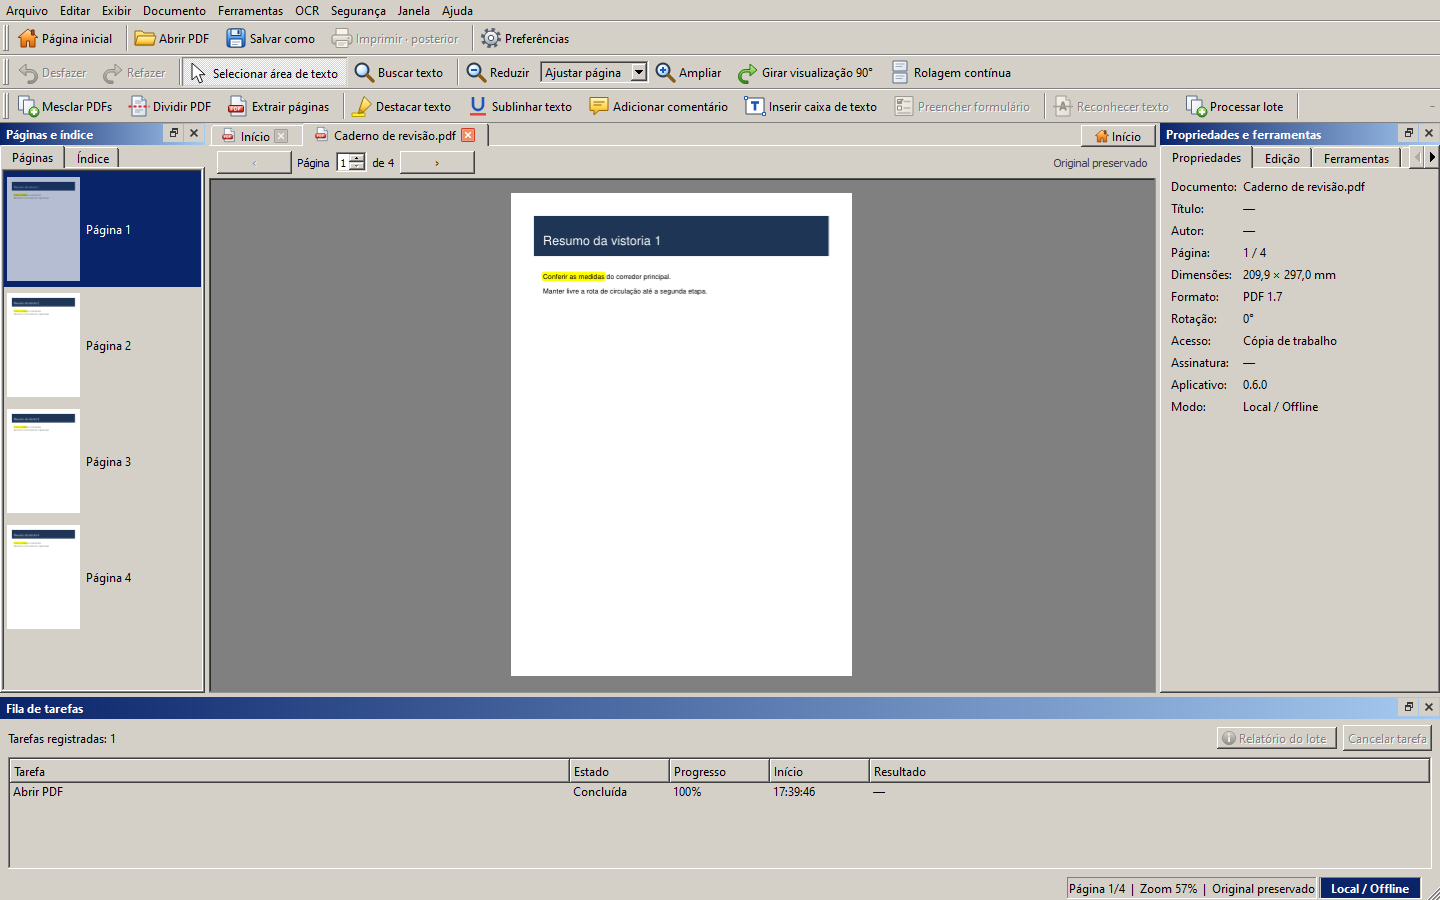
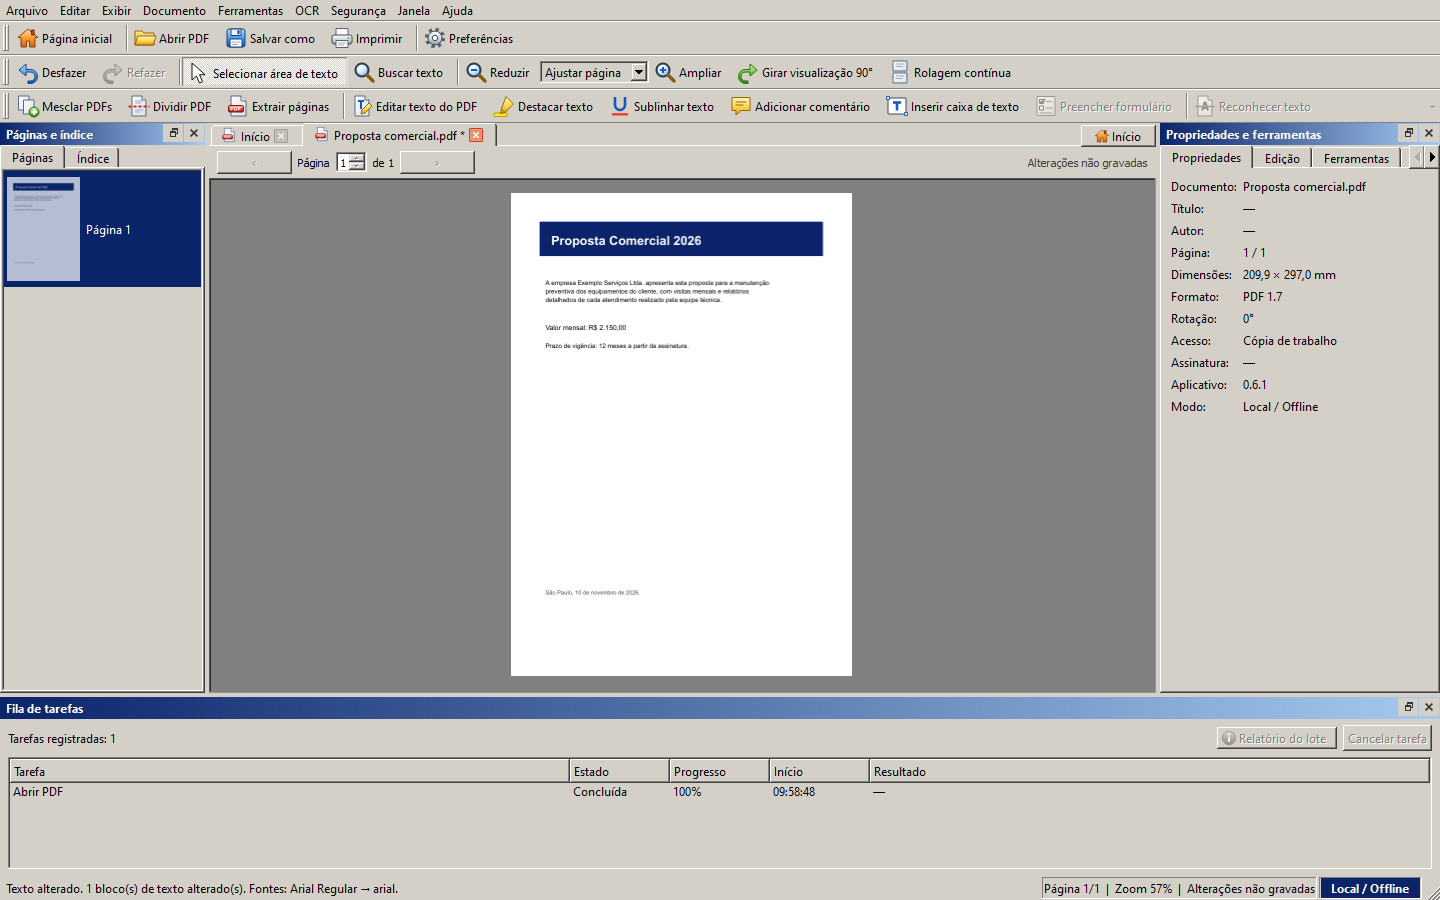
Versão 0.8.0: impressão e edição do texto original
Documentação (README, guia, guia interno, arquitetura, plano de testes,
avisos de terceiros sobre as fontes do sistema), roteiro da página inicial,
capturas atualizadas e teste do executável cobrindo a edição de texto.

diff --git a/src/oldschoolpdf/ui/pages.py b/src/oldschoolpdf/ui/pages.py
@@ -48,6 +48,23 @@ Selecione o destaque, sublinhado, caixa de texto, carimbo, forma ou imagem e arr
 a página. Clique para posicionar um comentário. Esc cancela a ferramenta ativa.
 Selecione uma anotação na página ou no painel para mover, editar seu texto ou excluí-la,
 conforme o tipo. Para campos AcroForm compatíveis, use Preencher formulário na página do campo.</p>
+<h2>Editar o texto original</h2>
+<p>Use <b>Editar → Editar texto do PDF</b> (Ctrl+E). A página aparece à esquerda com os
+blocos de texto numerados. Clique num bloco, edite o texto à direita e use Negrito e Itálico
+se precisar. Vários blocos podem ser alterados e aplicados de uma vez. <b>Gerar prévia</b>
+mostra a cópia editada antes de gravar; <b>Aplicar ao PDF</b> cria uma revisão nova, que pode
+ser desfeita com Ctrl+Z.</p>
+<p>O programa apaga só o texto do bloco e escreve o novo no mesmo lugar, usando a mesma família
+de fonte instalada no Windows quando existir. Depois confere o texto gravado, o resto da página,
+os links e as anotações; se algo divergir, nada é alterado. Se o texto novo não couber, escolha
+reduzir a fonte ou expandir o bloco para baixo. Blocos tracejados não podem ser editados:
+texto invisível de OCR, texto girado, texto sobre campos de formulário ou páginas
+digitalizadas sem texto.</p>
+<h2>Imprimir</h2>
+<p><b>Arquivo → Imprimir</b> (Ctrl+P) abre o diálogo do Windows, com intervalo de páginas,
+página atual, cópias e ordem. Cada página é ajustada ao papel e girada quando a orientação
+difere. A impressão aparece na fila de tarefas e pode ser cancelada. PDFs que proíbem
+impressão deixam o comando desativado.</p>
 <h2>Gravar a cópia de trabalho</h2>
 <p>Ctrl+Z e Ctrl+Y percorrem as revisões da aba. O asterisco no nome da aba indica alterações
 pendentes. Use <b>Arquivo → Salvar como</b> (Ctrl+Shift+S) e escolha um destino separado.
@@ -181,8 +198,9 @@ class HomePage(QScrollArea):
             ("M3", "Anotações e formulários", "Concluído"),
             ("M4", "OCR, conversão e lotes", "Concluído"),
             ("M5", "Segurança e assinaturas locais", "Concluído"),
-            ("M6", "Visual Clássico 2000, novo nome e instalador", "Versão atual"),
-            ("M7", "Publicação e atualizações", "Futuro"),
+            ("M6", "Visual Clássico 2000, novo nome e instalador", "Concluído"),
+            ("M7", "Impressão e edição do texto original", "Versão atual"),
+            ("M8", "Mais temas e edição de texto em colunas", "Futuro"),
         ):
             QTreeWidgetItem(roadmap, row)
         roadmap.header().setSectionResizeMode(0, QHeaderView.ResizeMode.ResizeToContents)

diff --git a/packaging/build.py b/packaging/build.py
@@ -99,15 +99,28 @@ def test_frozen_worker() -> None:
             found, _ = ask("search", page=0, query="empacotado", limit=10)
             # Carrega pyHanko e lxml dentro do executável.
             signatures, _ = ask("verify_signatures", trust_paths=[])
+            # Edição de texto: fontes do sistema, verificação e página gêmea no executável.
+            blocks, _ = ask("text_blocks", page=0, width=400, height=500, dpr=1.0)
+            block = blocks["result"]["blocks"][0] if "result" in blocks else None
+            edit = (
+                [{"key": block["key"], "runs": [dict(block["runs"][0], text="Editado no .exe")]}]
+                if block
+                else []
+            )
+            preview, preview_pixels = ask(
+                "preview_text", page=0, blocks=edit, options={}, width=400, height=500, dpr=1.0
+            )
         finally:
             worker.stdin.close()
             worker.wait(timeout=30)
         problems = [
-            reply["error"] for reply in (opened, frame, found, signatures) if "error" in reply
+            reply["error"]
+            for reply in (opened, frame, found, signatures, blocks, preview)
+            if "error" in reply
         ]
-        if problems or not pixels:
+        if problems or not pixels or not preview_pixels:
             raise SystemExit(f"O leitor empacotado falhou: {problems or 'imagem vazia'}")
-    print("Leitor empacotado abriu, renderizou, pesquisou e verificou assinaturas.")
+    print("Leitor empacotado abriu, renderizou, pesquisou, verificou assinaturas e editou texto.")
     bundled = {path.name.split("-")[0].lower() for path in APP_DIR.glob("_internal/*.dist-info")}
     if missing := {"pymupdf", "pyhanko"} - bundled:
         raise SystemExit(f"Metadados ausentes no pacote: {sorted(missing)}")

diff --git a/src/oldschoolpdf/ui/text_edit_dialog.py b/src/oldschoolpdf/ui/text_edit_dialog.py
@@ -1,6 +1,7 @@
 """Editor do texto original do PDF: a página e a cópia editada, lado a lado."""
 
 from collections.abc import Callable
+from contextlib import suppress
 from dataclasses import asdict
 
 from PySide6.QtCore import QPointF, QRectF, Qt, Signal
@@ -392,10 +393,8 @@ class TextEditDialog(QDialog):
             (self.viewer.text_edited, self._applied),
             (self.viewer.text_edit_failed, self._failed),
         ):
-            try:
+            with suppress(RuntimeError, TypeError):
                 signal.disconnect(slot)
-            except (RuntimeError, TypeError):
-                continue
 
     def _busy(self, text: str) -> None:
         working = self.working = bool(text)

diff --git a/tests/gui/test_text_editor.py b/tests/gui/test_text_editor.py
@@ -1,6 +1,6 @@
 import pymupdf
 import pytest
-from PySide6.QtCore import QPointF, Qt
+from PySide6.QtCore import Qt
 from PySide6.QtGui import QTextCursor
 from PySide6.QtWidgets import QMessageBox
 
@@ -144,7 +144,6 @@ def test_clicking_the_page_selects_a_block(window, qtbot, tmp_path):
     qtbot.mouseClick(preview, Qt.MouseButton.LeftButton, pos=box.center().toPoint())
     assert dialog.current == index and preview.selected == index
     assert dialog.list.currentRow() == index
-    assert QPointF(box.center()) is not None
 
 
 def test_text_that_does_not_fit_keeps_dialog_open(window, qtbot, tmp_path):

diff --git a/tests/integration/test_boundaries.py b/tests/integration/test_boundaries.py
@@ -74,7 +74,7 @@ def test_module_entrypoint_version_runs_in_a_separate_process():
         env=environment,
     )
     assert result.returncode == 0, result.stderr
-    assert result.stdout.strip() == "0.6.1"
+    assert result.stdout.strip() == "0.8.0"
     assert result.stderr == ""
 
 

diff --git a/src/oldschoolpdf/__init__.py b/src/oldschoolpdf/__init__.py
@@ -1,3 +1,3 @@
 """Old School PDF, visualizador de PDFs local."""
 
-__version__ = "0.6.1"
+__version__ = "0.8.0"

diff --git a/README.md b/README.md
@@ -19,8 +19,8 @@ completos. Nada de minimalismo.
 
 | Arquivo | Para quem |
 |---|---|
-| [**OldSchoolPDF-0.6.1-setup.exe**](https://github.com/Reinaldo-Porfirio/old-school-pdf/releases/download/v0.6.1/OldSchoolPDF-0.6.1-setup.exe) (≈ 43 MB) | **Recomendado.** Instalador com atalhos e desinstalação. Não pede administrador. |
-| [**OldSchoolPDF-0.6.1-sem-instalar.zip**](https://github.com/Reinaldo-Porfirio/old-school-pdf/releases/download/v0.6.1/OldSchoolPDF-0.6.1-sem-instalar.zip) (≈ 58 MB) | Para quem não quer instalar: extraia em qualquer pasta e abra `OldSchoolPDF.exe`. |
+| [**OldSchoolPDF-0.8.0-setup.exe**](https://github.com/Reinaldo-Porfirio/old-school-pdf/releases/download/v0.8.0/OldSchoolPDF-0.8.0-setup.exe) (≈ 43 MB) | **Recomendado.** Instalador com atalhos e desinstalação. Não pede administrador. |
+| [**OldSchoolPDF-0.8.0-sem-instalar.zip**](https://github.com/Reinaldo-Porfirio/old-school-pdf/releases/download/v0.8.0/OldSchoolPDF-0.8.0-sem-instalar.zip) (≈ 58 MB) | Para quem não quer instalar: extraia em qualquer pasta e abra `OldSchoolPDF.exe`. |
 
 **Requisitos:** Windows 10 ou 11 de 64 bits e cerca de 130 MB livres em disco. Não precisa
 de Python, de conta nem de internet. Foi testado no Windows 11. O Windows 10 é aceito,
@@ -30,13 +30,17 @@ mas ainda não foi testado.
 > código, então o SmartScreen avisa na primeira vez. Clique em **Mais informações >
 > Executar assim mesmo**. Para conferir se o arquivo é o original, compare o
 > SHA-256 com o publicado na [página da versão](https://github.com/Reinaldo-Porfirio/old-school-pdf/releases/latest)
-> (no PowerShell: `Get-FileHash .\OldSchoolPDF-0.6.1-setup.exe`).
+> (no PowerShell: `Get-FileHash .\OldSchoolPDF-0.8.0-setup.exe`).
 
 ## O que ele faz
 
 - **Ler:** abas, miniaturas, zoom, rolagem contínua, busca com acentos e cópia de texto.
 - **Organizar:** mesclar, dividir, extrair, reordenar arrastando miniaturas, girar e excluir páginas.
 - **Anotar:** destaque, sublinhado, comentários, caixas de texto, carimbos, formas e imagens.
+- **Editar o texto original:** troca o texto de parágrafos, títulos e valores direto no PDF,
+  com prévia lado a lado, negrito e itálico, a mesma fonte do documento quando ela estiver
+  instalada no Windows e verificação automática do resultado ([como funciona](#editar-o-texto-do-pdf)).
+- **Imprimir:** diálogo do Windows com intervalo, cópias e ajuste automático ao papel.
 - **Formulários:** preenche campos AcroForm compatíveis.
 - **Converter:** imagens para PDF, PDF para PNG/JPEG, extração de texto e imagens, compactação e lotes.
 - **OCR local:** torna pesquisáveis os PDFs digitalizados, em português e inglês ([veja como ativar](#ativar-o-ocr)).
@@ -122,11 +126,38 @@ sozinho, para diagnóstico.
   indique a área na página. Selecione uma anotação para mover, editar o texto
   ou excluí-la conforme o tipo. O comando **Preencher formulário** lista os
   campos da página atual.
+- **Ctrl+P** imprime com o diálogo do Windows: intervalo, página atual, cópias e ordem.
+  Páginas deitadas giram para ocupar o papel. A impressão aparece na fila e pode ser cancelada.
 - **Ctrl+Z** e **Ctrl+Y** percorrem as revisões. **Ctrl+Shift+S** grava um PDF
   separado. Um asterisco indica alterações pendentes. A fila permite cancelar
   exportações antes da publicação.
 - **Exibir > Rolagem contínua** permite percorrer várias páginas no mesmo painel.
 - `F1` abre a ajuda local. A lista de atalhos está em **Ferramentas > Preferências**.
+
+## Editar o texto do PDF
+
+![Editor de texto lado a lado](docs/screenshots/editor-de-texto.png)
+
+**Editar → Editar texto do PDF** (Ctrl+E) mostra a página com os blocos de texto numerados.
+Escolha um bloco, edite à direita e confira em **Gerar prévia**. **Aplicar ao PDF** cria uma
+revisão nova, que pode ser desfeita com Ctrl+Z; o arquivo original nunca é alterado.
+
+Como a edição é feita com segurança:
+
+1. Apaga só a faixa central das letras do bloco, sem pintar nada por cima, preservando fundos,
+   imagens e o texto vizinho.
+2. Confere que o bloco sumiu por inteiro e que nenhum outro texto foi afetado.
+3. Escreve o texto novo no mesmo lugar com a mesma família de fonte, usando a versão completa
+   instalada no Windows quando o PDF só trouxer um pedaço dela (fontes cuja licença proíbe
+   incorporação são ignoradas). Só as letras usadas são embutidas.
+4. Confere o texto gravado, os pixels fora da área editada, a cor visível, os links e as
+   anotações. Se algo divergir, a edição é cancelada e nada muda.
+
+Se o texto novo for maior, escolha reduzir a fonte (até 85% ou 70%) ou expandir o bloco para
+baixo até o próximo conteúdo. Não podem ser editados: páginas digitalizadas (o texto é
+imagem), a camada invisível do OCR, texto girado ou vertical, texto sobre campos de formulário
+e escrita da direita para a esquerda. Tabelas e colunas funcionam bloco a bloco. Editar um PDF
+assinado digitalmente invalida a assinatura; o programa avisa antes.
 
 ## Proteger, redigir e assinar cópias
 

diff --git a/docs/architecture.md b/docs/architecture.md
@@ -155,3 +155,30 @@ testes visuais em outras escalas/tecnologias assistivas permanecem necessários.
 Toda string visível é pt-BR; widgets usam `tr` nos pontos principais e a composição
 carrega a tradução Qt pt-BR. Um catálogo próprio de outro idioma ainda não foi
 criado; preparar QTranslator não equivale a entregar interface em inglês.
+
+## Impressão (0.8)
+
+`ui/print_tools.py` mostra o diálogo do sistema e calcula a sequência de páginas (intervalo,
+ordem e cópias quando o driver não as faz). `PdfViewer.print_pages` pede cada página ao
+processo do PDF pela operação `render`, com a escala da impressora e sem passar pelo cache da
+tela. `PrintJob` desenha cada imagem no `QPrinter`, ajustada e girada conforme o papel, e
+registra progresso e cancelamento na fila. A resolução fica limitada pela permissão de
+impressão do PDF.
+
+## Edição do texto original (0.8)
+
+`domain/text_editing.py` concentra as regras sem Qt nem PyMuPDF: validação do texto digitado,
+reconstrução de parágrafos, alinhamento, comparação e chaves de família de fonte.
+`infrastructure/pdf_text_edit.py` lê os blocos (`read_blocks`) e aplica as trocas
+(`replace_blocks`). `infrastructure/system_fonts.py` indexa as fontes do Windows lendo só as
+tabelas `name` e `OS/2` e descarta as que proíbem incorporação ou subconjunto.
+
+O processo do PDF expõe `text_blocks` (blocos e imagem da página), `preview_text` (edição numa
+cópia descartável e imagem do resultado) e a ação `replace_text` em `edit`, que grava uma
+revisão como as demais edições. `replace_blocks` sempre roda numa cópia da revisão: com a
+página temporariamente a 0°, apaga a faixa central de cada trecho por redação sem
+preenchimento, confere os vizinhos, escreve numa página gêmea com as fontes reduzidas a
+subconjunto e a sobrepõe à real, reanexa links desanexados pela redação e confere texto, cor
+visível, pixels fora da área, links e anotações. Qualquer divergência levanta erro e a revisão
+não é criada. O diálogo `ui/text_edit_dialog.py` guarda o estilo de cada trecho numa
+propriedade do formato de caractere do Qt e envia os trechos como dados, nunca como HTML.

diff --git a/docs/test_plan.md b/docs/test_plan.md
@@ -55,6 +55,27 @@ mesclagem e divisão em lote e confirmação de risco de assinatura. A suíte us
 Casos adicionais verificam cancelamento da redação durante o progresso,
 limpeza das marcas ao mudar de revisão e disponibilidade sem `signing`.
 
+## Impressão e edição de texto (0.8)
+
+| Caso | Verificação |
+|---|---|
+| Impressão completa, intervalo, página atual e cópias | `tests/gui/test_print.py` imprime em PDF e confere páginas e conteúdo |
+| Página deitada em papel em pé | A página é girada e não sai em branco |
+| PDF sem permissão de impressão ou só em baixa qualidade | Comando desativado ou resolução limitada a 150 DPI |
+| Cancelamento e encerramento da aba durante a impressão | Tarefa cancelada ou falha explicada, sem aba presa |
+| Troca de texto com vizinho de entrelinha apertada | `tests/integration/test_text_engine.py`: vizinhos idênticos |
+| Página girada (0°, 90°, 180°, 270°) e com área de corte | Texto novo na mesma posição e direção |
+| Texto que não cabe, redução e expansão até o próximo bloco | Recusa clara, redução ou expansão limitadas |
+| OCR invisível, texto girado, campo de formulário, direita para a esquerda | Bloco não editável com motivo |
+| Links, anotações e imagem de fundo | Preservados; link desanexado é reanexado |
+| Reeditar um bloco já editado, apagar um bloco, dois blocos por vez | Resultado conferido |
+| Fonte em subconjunto com negrito | Mesma família instalada, com ênfase preservada |
+| Texto com padrão de preenchimento, branco sobre escuro, preto miúdo | Cor visível correta; branco sobre branco recusado |
+| Editor lado a lado | `tests/gui/test_text_editor.py`: prévia, aplicar, desfazer, negrito, assinatura, descarte |
+
+Verificação manual recomendada antes de publicar: PDFs reais gerados por Word, navegadores e
+digitalizadores, editando um bloco de cada tipo e conferindo a prévia.
+
 ## Regressão do M0
 
 - Inicialização: QApplication real, QMainWindow, nove menus, três barras, três

diff --git a/THIRD_PARTY_NOTICES.md b/THIRD_PARTY_NOTICES.md
@@ -1,4 +1,4 @@
-# Avisos de terceiros · Old School PDF 0.6.1
+# Avisos de terceiros · Old School PDF 0.8.0
 
 Atualizado em 10/11/2026. O código do Old School PDF usa **AGPL-3.0-or-later**.
 Cada componente de terceiros mantém os termos de quem o publicou. O `uv.lock`
@@ -101,7 +101,7 @@ são gerados por `packaging/build.py`. O executável contém:
   separados em `_internal/PySide6` e podem ser substituídas por versões compatíveis
   modificadas pelo usuário. Os textos da LGPL-3.0 e da GPL-3.0 vão em `_internal/licenses`;
 - **PyMuPDF e MuPDF** sob AGPL-3.0. O código-fonte completo e correspondente do
-  aplicativo é este repositório, na tag da versão (por exemplo, `v0.6.1`);
+  aplicativo é este repositório, na tag da versão (por exemplo, `v0.8.0`);
 - **pyHanko** e as dependências da tabela acima, com os arquivos de licença de cada
   pacote em `_internal/*.dist-info`;
 - **setuptools** 84.2.1 (MIT), incluído pelo PyInstaller como dependência de execução.
@@ -153,6 +153,14 @@ do aplicativo distribuído. uv 0.12.5 é a ferramenta externa de instalação
 As actions da CI estão fixadas por commit: actions/checkout v7.0.1, actions/setup-python
 v7.1.0, actions/upload-artifact v7.0.2 e astral-sh/setup-uv v10.3.3, todas MIT. Elas
 são ferramentas do workflow, não componentes do aplicativo.
+
+## Fontes usadas na edição de texto
+
+Ao editar o texto de um PDF, o programa pode embutir no documento um subconjunto (só as letras
+usadas) de uma fonte instalada no Windows do próprio usuário, da mesma família da fonte
+original. Fontes cuja licença declara incorporação restrita, proíbe subconjunto ou só traz
+bitmaps (campo `fsType` da tabela OS/2) são ignoradas. Nenhuma fonte é distribuída com o
+programa para essa função; sem uma fonte instalada adequada, usa-se uma fonte padrão do MuPDF.
 
 ## Assets
 

diff --git a/CHANGELOG.md b/CHANGELOG.md
@@ -1,5 +1,26 @@
 # Alterações
 
+## 0.8.0 · 14/11/2026
+
+Inclui o que estava planejado para a 0.7, que não foi publicada separadamente.
+
+- **Impressão** (Ctrl+P): diálogo do sistema com intervalo, página atual, cópias e ordem; páginas
+  renderizadas na resolução da impressora (até 300 DPI, ou 150 DPI quando o PDF só permite
+  impressão em baixa qualidade), ajustadas ao papel e giradas quando a orientação difere; tarefa
+  na fila com progresso e cancelamento; respeita a permissão de impressão do PDF.
+- **Edição do texto original** (Ctrl+E): editor lado a lado com a página e os blocos numerados,
+  negrito e itálico, vários blocos por vez, prévia verificada e aplicação como revisão desfazível.
+- Motor de edição com verificações: remoção só da faixa central das letras, conferência de que
+  nenhum texto vizinho foi afetado, escrita numa página gêmea com fontes reduzidas a subconjunto,
+  reanexação de links, conferência do texto gravado, da cor visível, dos pixels fora da área, dos
+  links e das anotações. Qualquer divergência cancela a edição.
+- Fontes: a mesma família instalada no Windows substitui fontes em subconjunto, respeitando a
+  permissão de incorporação de cada fonte; sem ela, uma fonte padrão parecida.
+- Texto que não cabe: reduzir até 85% ou 70% e expandir o bloco para baixo até o próximo conteúdo.
+- Recusas explicadas: texto invisível de OCR, girado, sobre campo de formulário, da direita para
+  a esquerda, e PDFs sem permissão de alterar conteúdo.
+- A janela principal usa o ícone do aplicativo.
+
 ## 0.6.1 · 10/11/2026
 
 - O executável e o instalador passam a incluir os textos da LGPL-3.0 e da GPL-3.0 (Qt),

diff --git a/docs/user_guide.md b/docs/user_guide.md
@@ -51,6 +51,28 @@ escolher uma diretamente.
 - PDFs com indicação de assinatura digital pedem confirmação antes da edição ou
   exportação. A janela informa o risco de invalidar a assinatura na cópia.
 
+## Editar o texto original
+
+Use **Editar > Editar texto do PDF** (Ctrl+E). A página aparece à esquerda com os blocos de
+texto numerados; clique num bloco ou escolha na lista. Edite o texto à direita. **Negrito** e
+**Itálico** valem para o trecho selecionado. Altere quantos blocos quiser e use **Gerar
+prévia** para ver a cópia editada na aba ao lado. **Aplicar ao PDF** grava uma revisão nova,
+desfeita com Ctrl+Z, e **Restaurar bloco** desfaz as mudanças de um bloco antes de aplicar.
+
+Se o texto novo não couber, escolha reduzir a fonte até 85% ou 70% ou expandir o bloco para
+baixo, até o próximo conteúdo. A opção **Usar as fontes instaladas no Windows** deixa o
+resultado mais fiel ao original. Blocos tracejados não podem ser editados; passe o mouse sobre
+eles na lista para ver o motivo. Páginas digitalizadas não têm texto editável.
+
+Antes de gravar, o programa confere o texto escrito, o restante da página, a cor, os links e
+as anotações. Se algo divergir, aparece uma mensagem e nada é alterado.
+
+## Imprimir
+
+**Arquivo > Imprimir** (Ctrl+P) abre o diálogo do Windows. Escolha a impressora, o intervalo,
+a página atual ou todas, as cópias e a ordem. Cada página é ajustada ao papel. A impressão
+aparece na fila de tarefas, onde pode ser cancelada.
+
 ## Gravar e fechar
 
 **Ctrl+Z** e **Ctrl+Y** alternam entre as revisões. A aba marca alterações pendentes
